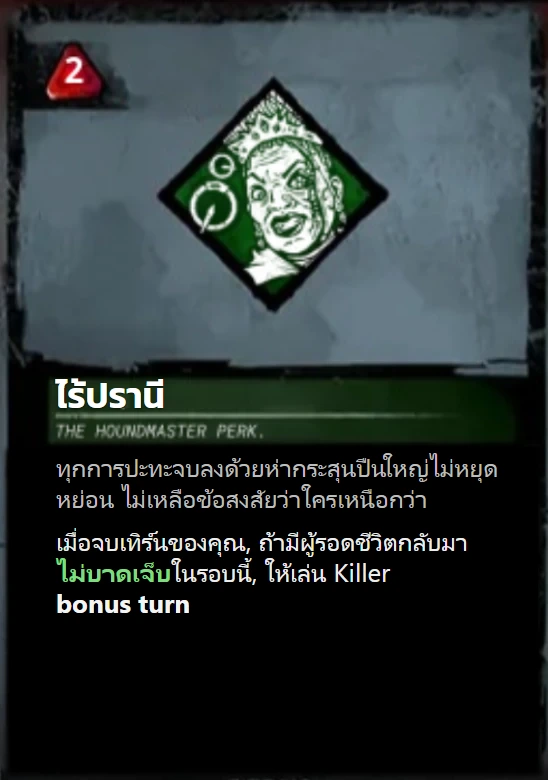
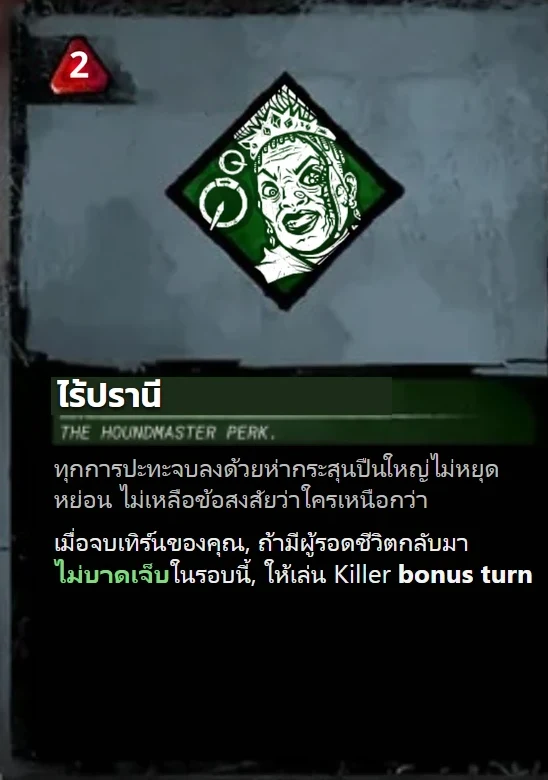
Version 1.47.2: Taurie Cain's and The Houndmaster's boards from the sharp originals
Both boards came to us through a chat app, which had compressed them; a player sent the originals
(6900x4643 and 3375x2569, the same crops at a higher resolution). The boards are scaled to the
2400 the rest of them use, and everything cut from a board is cut again from the new one: the
three perk cards of each, and The Houndmaster's power and passive panels. Each crop's rectangle
was found in the old board rather than assumed, since a few of them are not the standard boxes
build_assets.py uses.

The Thai boards are painted by hand over the English ones, so they could not simply be replaced.
The boxes their Thai text sits in were found by diffing the old English board against the Thai
one, and only those boxes were carried onto the new art: the portrait, the frame and the perk
diamonds are the sharp ones now, while the text keeps its place over the flat dark panels, where
there is no detail to miss.

The perk and power icons are still the ones cut from the old cards; they are shown at about 100px
and nothing of the blur survives that.

diff --git a/src/changelog.ts b/src/changelog.ts
@@ -12,6 +12,13 @@ export interface Release {
 
 export const CHANGELOG: Release[] = [
   {
+    version: '1.47.2',
+    date: '2026-11-13',
+    items: [
+      'บอร์ดและการ์ด Perk ของ Taurie Cain กับ The Houndmaster คมขึ้น — ไฟล์เดิมผ่านการบีบอัดมาจนเบลอ (ทั้งฉบับไทยและอังกฤษ รวมถึงการ์ด Power/Passive ของ The Houndmaster)',
+    ],
+  },
+  {
     version: '1.47.1',
     date: '2026-11-13',
     items: [
